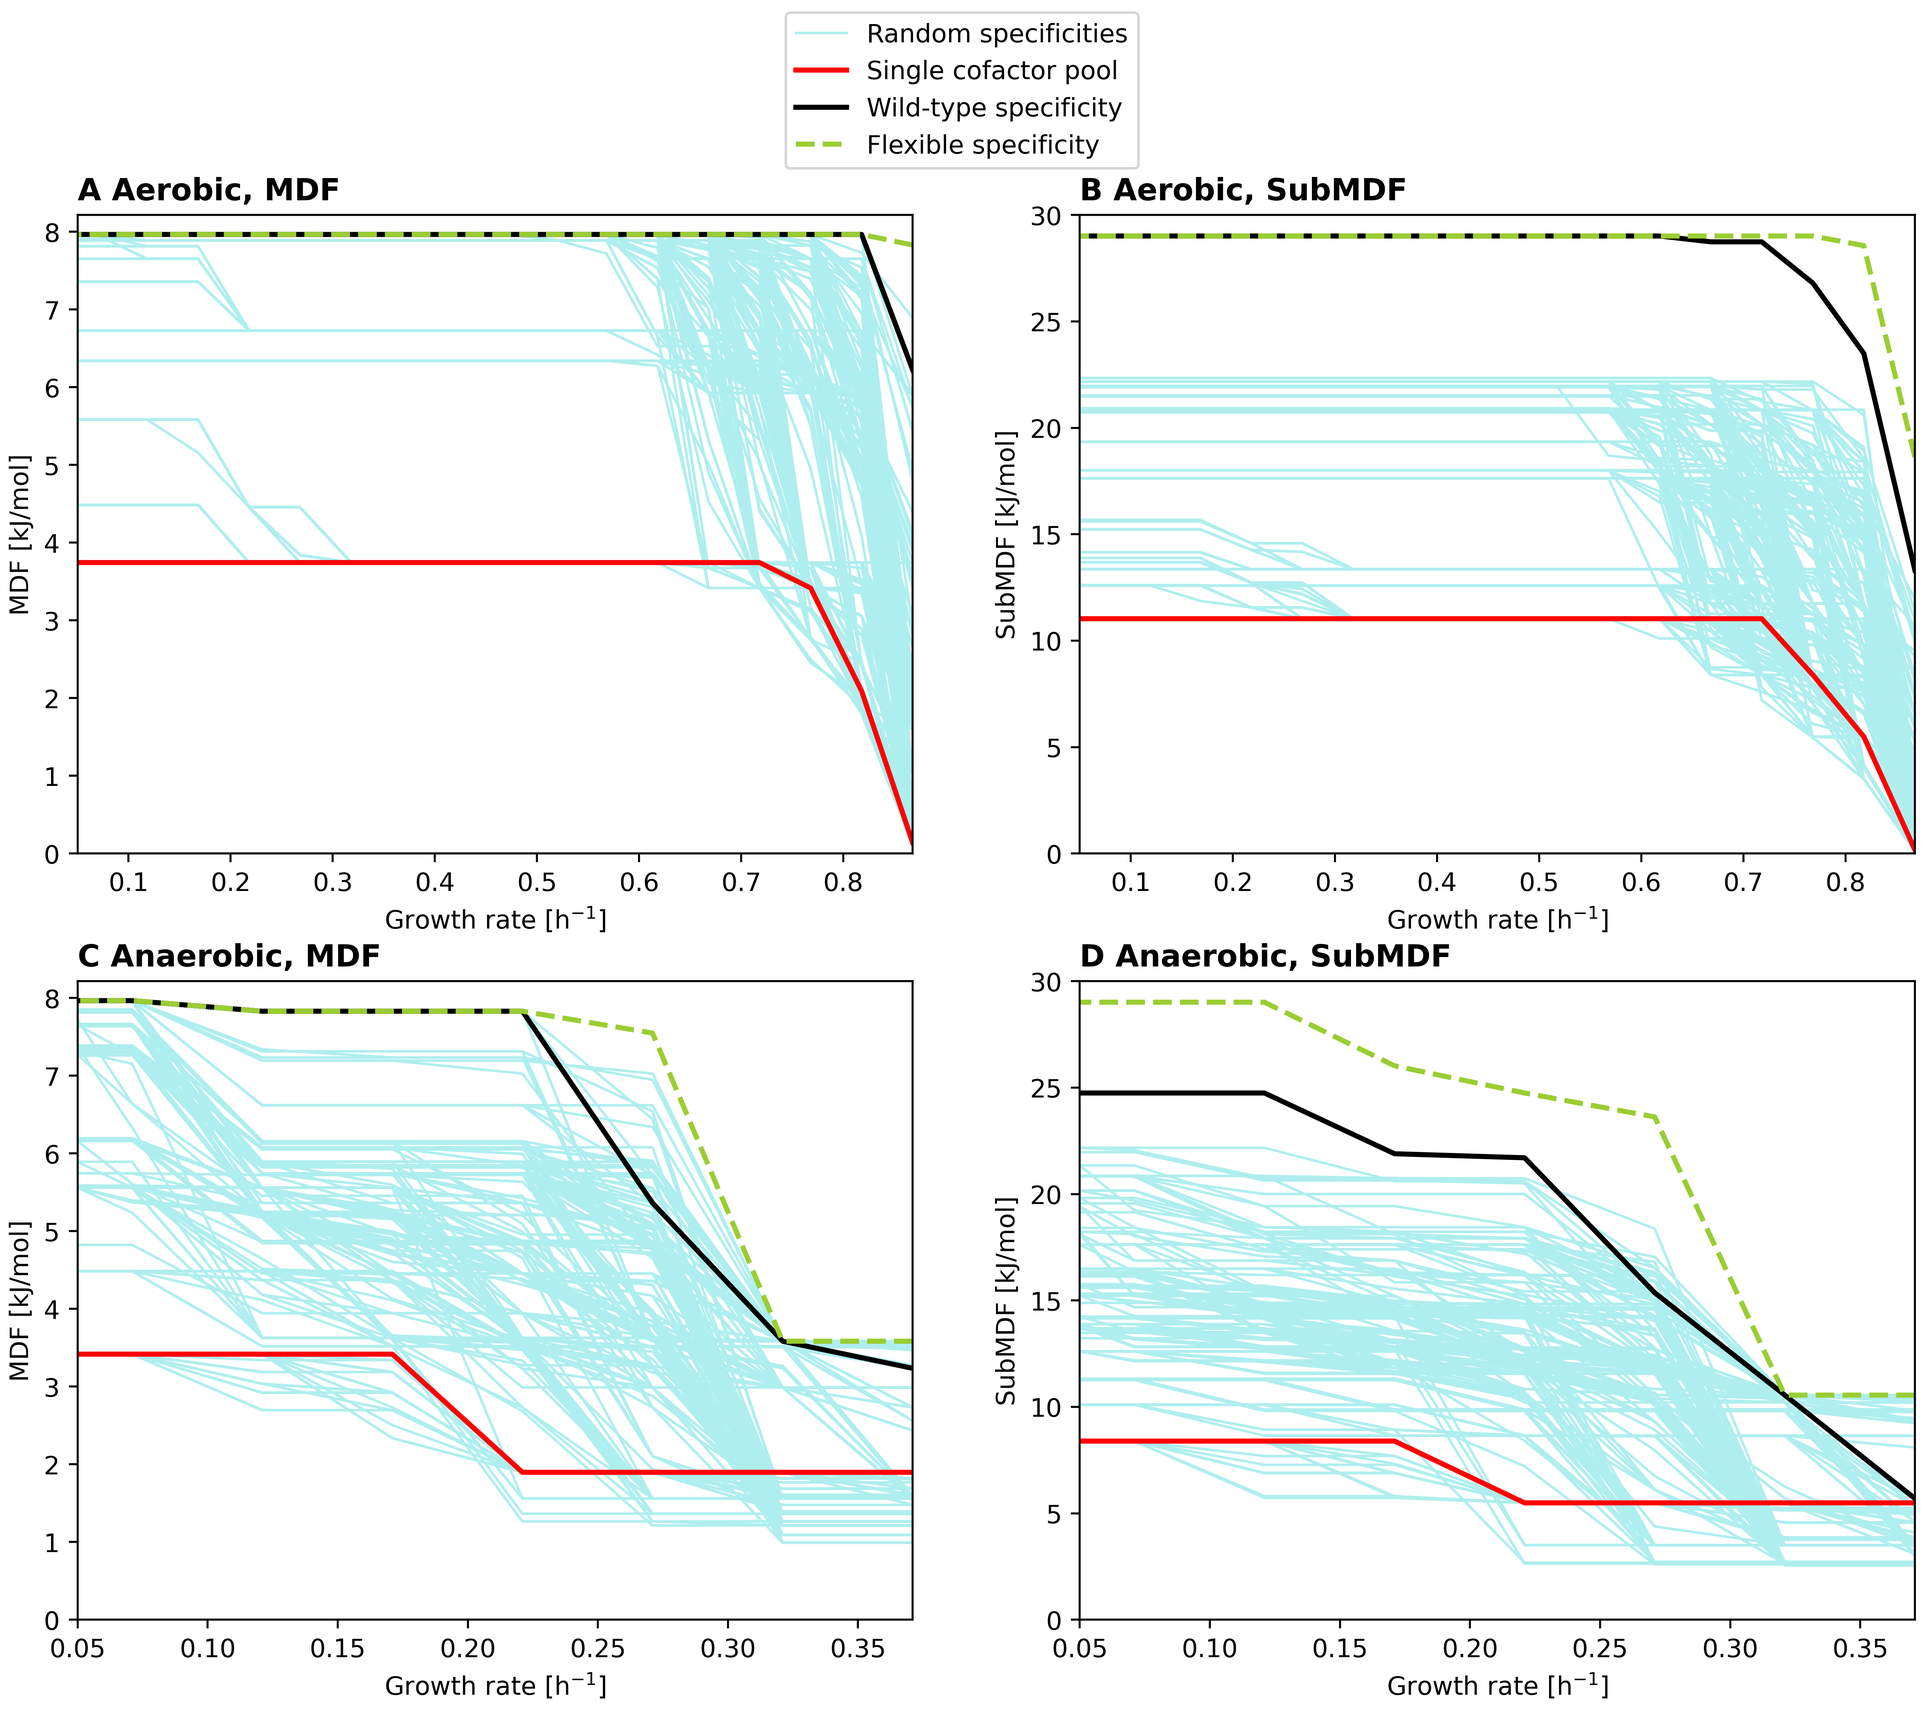
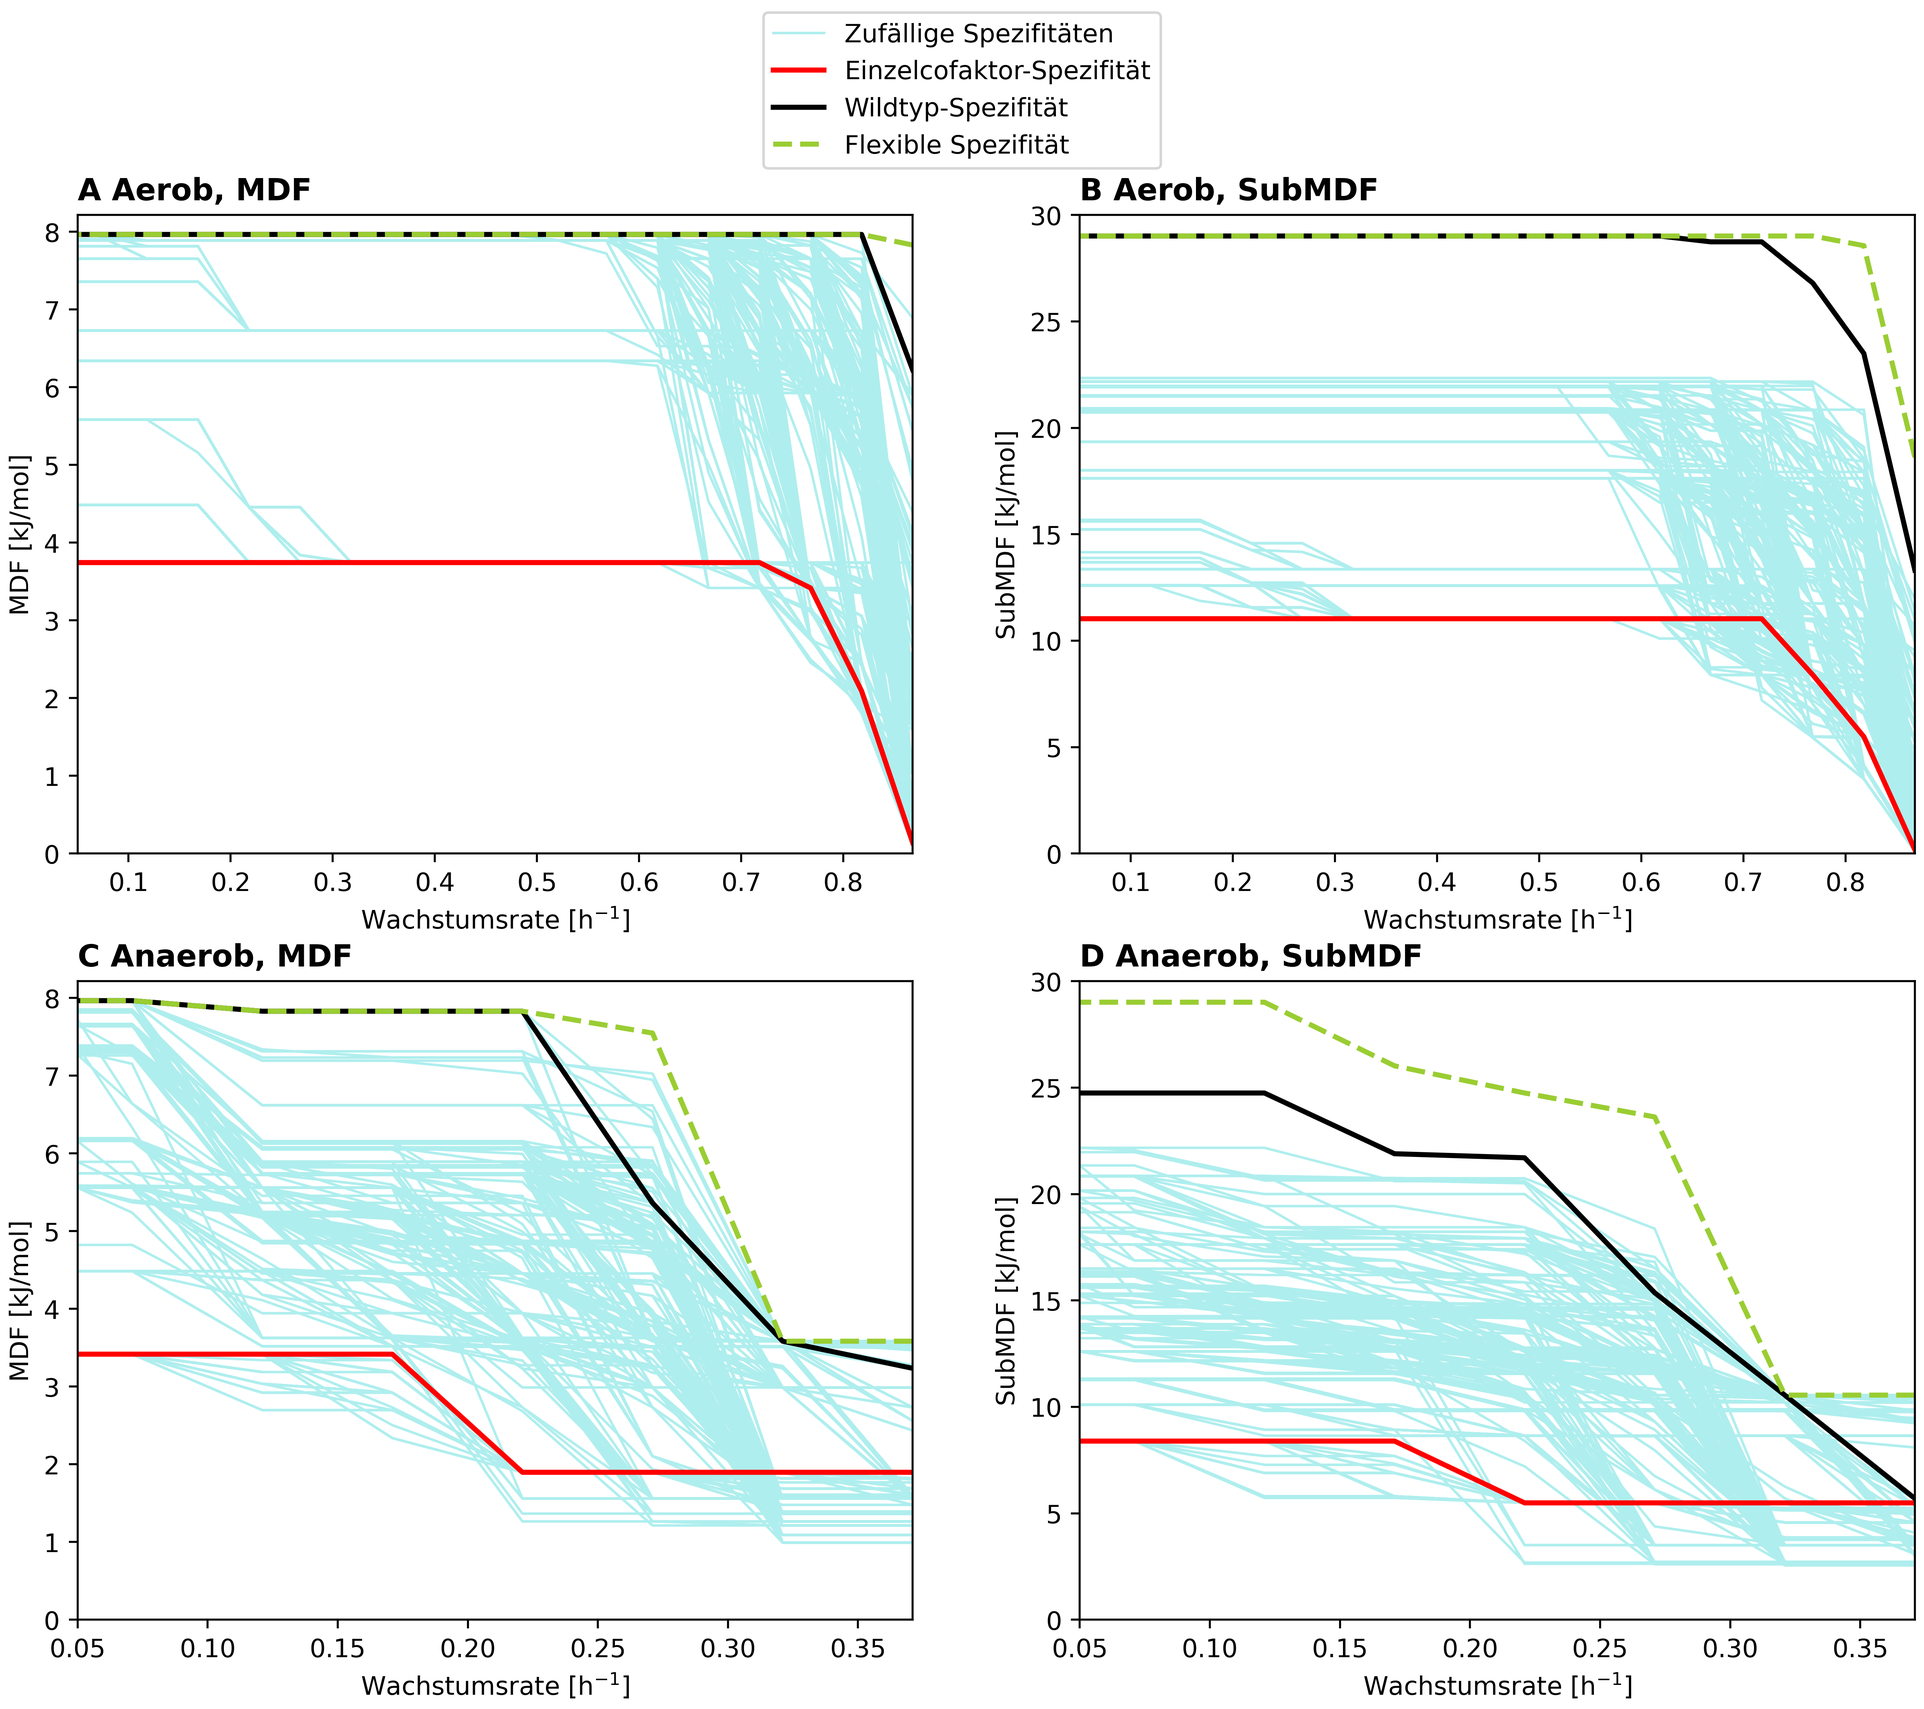
Initial translations

diff --git a/cosa_create_special_aerobic_figures.py b/cosa_create_special_aerobic_figures.py
@@ -59,23 +59,23 @@ def create_in_vivo_concentrations_figure():
         if header == growth_rate_id:
             continue
         elif header == best_id:
-            label = "Flexible specificity"
+            label = "Flexible Spezifität"
             linestyle = "--"
             color = "yellowgreen"
             linewidth = 2.0
         elif header == in_vivo_id:
-            label = "Wild-type specificity"
+            label = "Wildtyp-Spezifität"
             linestyle = "-"
             color = "black"
             linewidth = 2.0
         elif header == only_one_id:
-            label = "Single cofactor pool"
+            label = "Einzelcofaktor-Spezifität"
             linestyle = "-"
             color = "red"
             linewidth = 2.0
         else:
             if is_first_random:
-                label = "Random specificities"
+                label = "Zufällige Spezifitäten"
                 is_first_random = False
             else:
                 label = ""
@@ -93,7 +93,7 @@ def create_in_vivo_concentrations_figure():
         )
     axs[0].legend(loc="lower left", fontsize=16)
     axs[0].set_title("A", loc="left", fontweight="bold", fontsize=18)
-    axs[0].set_xlabel("Growth rate [1/h]", fontsize=14)
+    axs[0].set_xlabel("Wachstumsrate [1/h]", fontsize=14)
     axs[0].set_ylabel("SubMDF [kJ/mol]", fontsize=14)
     axs[0].set_xlim(min(growth_rates[:-1]), max(growth_rates[:-1]))
     axs[0].tick_params(labelsize=14)
@@ -105,8 +105,8 @@ def create_in_vivo_concentrations_figure():
     # 1: Ratio ratio figure
     ratio_ratio_test_data = ratio_ratio_test_data_aerobic
 
-    min_label = "Minimal ratio"
-    max_label = "Maximal ratio"
+    min_label = "Minimales Verhältnis"
+    max_label = "Maximales Verhältnis"
 
     figurename = figurename_tuple[1]
     plotted_growth_rates = [float(x) for x in ratio_ratio_test_data[figurename]["plotted_growth_rates"][:-1]]
@@ -128,7 +128,7 @@ def create_in_vivo_concentrations_figure():
     )
     axs[1].legend(loc="upper center", ncol=2, fontsize=16)
     axs[1].set_title("B", loc="left", fontweight="bold", fontsize=18)
-    axs[1].set_xlabel("Growth rate [1/h]", fontsize=15)
+    axs[1].set_xlabel("Wachstumsrate [1/h]", fontsize=15)
     # axs[1].set_ylabel(r"$\mathrm{\frac{[NADH]/[NAD^{+}]}{[NADPH]/[NADP^{+}]}}$", fontsize=15)
     axs[1].set_ylabel(r"$\mathrm{([NADH]/[NAD^{+}])/([NADPH]/[NADP^{+}])}$", fontsize=14)
     axs[1].tick_params(labelsize=14)
@@ -190,23 +190,23 @@ def create_acetate_figure():
             if header == growth_rate_id:
                 continue
             elif header == best_id:
-                label = "Flexible specificity"
+                label = "Flexible Spezifität"
                 linestyle = "--"
                 color = "yellowgreen"
                 linewidth = 2.0
             elif header == in_vivo_id:
-                label = "Wild-type specificity"
+                label = "Wildtyp-Spezifität"
                 linestyle = "-"
                 color = "black"
                 linewidth = 2.0
             elif header == only_one_id:
-                label = "Single cofactor pool"
+                label = "Einzelcofaktor-Spezifität"
                 linestyle = "-"
                 color = "red"
                 linewidth = 2.0
             else:
                 if is_first_random:
-                    label = "Random specificities"
+                    label = "Zufällige Spezifitäten"
                     is_first_random = False
                 else:
                     label = ""
@@ -223,8 +223,8 @@ def create_acetate_figure():
                 linewidth=linewidth,
             )
         axs[xpos, 0].legend(loc="lower left", fontsize=14)
-        axs[xpos, 0].set_title("C Sampling with SubMDF" if "SUB" in target else "A Sampling with MDF", loc="left", fontweight="bold", fontsize=18)
-        axs[xpos, 0].set_xlabel("Growth rate [1/h]", fontsize=14)
+        axs[xpos, 0].set_title("C SubMDF" if "SUB" in target else "A MDF", loc="left", fontweight="bold", fontsize=18)
+        axs[xpos, 0].set_xlabel("Wachstumsrate [1/h]", fontsize=14)
         axs[xpos, 0].set_ylabel(f"{target.replace('OPT', '').replace('SUB', 'Sub')} [kJ/mol]", fontsize=14)
         axs[xpos, 0].set_xlim(min(growth_rates[:-1]), max(growth_rates[:-1]))
         axs[xpos, 0].tick_params(labelsize=14)
@@ -236,8 +236,8 @@ def create_acetate_figure():
         # 1: Ratio ratio figures
         ratio_ratio_test_data = ratio_ratio_test_data_aerobic
 
-        min_label = "Minimal ratio"
-        max_label = "Maximal ratio"
+        min_label = "Minimales Verhältnis"
+        max_label = "Maximales Verhältnis"
 
         figurename = figurename_tuple[1]
         plotted_growth_rates = [float(x) for x in ratio_ratio_test_data[figurename]["plotted_growth_rates"][:-1]]
@@ -257,9 +257,9 @@ def create_acetate_figure():
             label=max_label,
             linewidth=1.0,
         )
-        axs[xpos, 1].legend(loc="upper center", ncol=2, fontsize=15)
-        axs[xpos, 1].set_title("D Ratios with SubMDF" if "SUB" in target else "B Ratios with MDF", loc="left", fontweight="bold", fontsize=18)
-        axs[xpos, 1].set_xlabel("Growth rate [1/h]", fontsize=15)
+        axs[xpos, 1].legend(loc="upper center", fontsize=15)
+        axs[xpos, 1].set_title("D Verhältnisse beim SubMDF" if "SUB" in target else "B Verhältnisse beim MDF", loc="left", fontweight="bold", fontsize=18)
+        axs[xpos, 1].set_xlabel("Wachstumsrate [1/h]", fontsize=15)
         axs[xpos, 1].set_ylabel(r"$\mathrm{[NADH]/[NAD^{+}] \ / \ [NADPH]/[NADP^{+}]}$", fontsize=13)
         axs[xpos, 1].tick_params(labelsize=14)
         axs[xpos, 1].set_ylim(-.0001 if "SUB" in target else -0.005, 0.0015 if "SUB" in target else 0.09)

diff --git a/cosa_ratio_ratio_test.py b/cosa_ratio_ratio_test.py
@@ -228,17 +228,17 @@ def cosa_create_full_ratio_ratio_test_figure_four_panels():
     concentrations = ("STANDARDCONC",) #"VIVOCONC")
     for concentration in concentrations:
         figurenames_to_plots = {
-            ("Aerobic", "OptMDF", "A", f"2C_NADH_to_NAD___to___NADPH_to_nadp_OPTMDF_{concentration}.jpg"): (0, 0),
-            ("Aerobic", "OptSubMDF", "B", f"2C_NADH_to_NAD___to___NADPH_to_nadp_OPTSUBMDF_{concentration}.jpg"): (0, 1),
-            ("Anaerobic", "OptMDF", "C", f"2C_NADH_to_NAD___to___NADPH_to_nadp_OPTMDF_{concentration}.jpg"): (1, 0),
-            ("Anaerobic", "OptSubMDF", "D", f"2C_NADH_to_NAD___to___NADPH_to_nadp_OPTSUBMDF_{concentration}.jpg"): (1, 1),
+            ("Aerob", "OptMDF", "A", f"2C_NADH_to_NAD___to___NADPH_to_nadp_OPTMDF_{concentration}.jpg"): (0, 0),
+            ("Aerob", "OptSubMDF", "B", f"2C_NADH_to_NAD___to___NADPH_to_nadp_OPTSUBMDF_{concentration}.jpg"): (0, 1),
+            ("Anaerob", "OptMDF", "C", f"2C_NADH_to_NAD___to___NADPH_to_nadp_OPTMDF_{concentration}.jpg"): (1, 0),
+            ("Anaerob", "OptSubMDF", "D", f"2C_NADH_to_NAD___to___NADPH_to_nadp_OPTSUBMDF_{concentration}.jpg"): (1, 1),
         }
         first = True
 
         fig, axs = plt.subplots(nrows=2, ncols=2, dpi=500, figsize=(19, 10)) #sharex=True, figsize=(50, 25), dpi=120, facecolor="white")
         fig.tight_layout(pad=3.75)
         for figurename_tuple in figurenames_to_plots.keys():
-            if figurename_tuple[0] == "Aerobic":
+            if figurename_tuple[0] == "Aerob":
                 ratio_ratio_test_data = ratio_ratio_test_data_aerobic
                 is_aerobic = True
             else:
@@ -246,8 +246,8 @@ def cosa_create_full_ratio_ratio_test_figure_four_panels():
                 is_aerobic = False
 
             if first:
-                min_label = "Minimal ratio"
-                max_label = "Maximal ratio"
+                min_label = "Minimales Verhältnis"
+                max_label = "Maximales Verhältnis"
                 first = False
             else:
                 min_label = None
@@ -304,19 +304,19 @@ def cosa_create_full_ratio_ratio_test_figure_four_panels():
                 )
             elif figurename_tuple[2] == "D":
                 axs[axs_index].set_ylim(-.04, 1.0)
-            axs[axs_index].set_xlabel("Growth rate [1/h]", fontsize=16)
+            axs[axs_index].set_xlabel("Wachstumsrate [1/h]", fontsize=16)
             # axs[axs_index].set_ylabel(r"$\mathrm{\frac{[NADH]/[NAD^{+}]}{[NADPH]/[NADP^{+}]}}$", fontsize=16)
             axs[axs_index].set_ylabel(r"$\mathrm{[NADH]/[NAD^{+}] \ / \ [NADPH]/[NADP^{+}]}$", fontsize=12)
             axs[axs_index].tick_params(labelsize=13)
-        fig.legend(loc=(0.235, 0.9525), ncol=2, fontsize=18)
+        fig.legend(loc=(0.16, 0.9525), ncol=2, fontsize=17)
         # fig.subplots_adjust(right=1.25)
 
         fig.savefig(f"./cosa/full_ratio_ratio_test_figure_{concentration}.png", bbox_inches='tight', pad_inches=0.05)
         plt.close()
 
 
-cosa_ratio_ratio_test(anaerobic=False, expanded=False)
-cosa_ratio_ratio_test(anaerobic=True, expanded=False)
-cosa_ratio_ratio_test(anaerobic=False, expanded=False, c_source="acetate")
+# cosa_ratio_ratio_test(anaerobic=False, expanded=False)
+# cosa_ratio_ratio_test(anaerobic=True, expanded=False)
+# cosa_ratio_ratio_test(anaerobic=False, expanded=False, c_source="acetate")
 
 cosa_create_full_ratio_ratio_test_figure_four_panels()

diff --git a/cosa_random_sampling_figures.py b/cosa_random_sampling_figures.py
@@ -786,19 +786,19 @@ def create_total_cosa_figure() -> None:
                 first = True
                 ax_x = 0
                 ax_y = 0
-                title = "A Aerobic, MDF"
+                title = "A Aerob, MDF"
             elif current_table == OPTSUBMDF_AEROBIC:
                 ax_x = 0
                 ax_y = 1
-                title = "B Aerobic, SubMDF"
+                title = "B Aerob, SubMDF"
             elif current_table == OPTMDF_ANAEROBIC:
                 ax_x = 1
                 ax_y = 0
-                title = "C Anaerobic, MDF"
+                title = "C Anaerob, MDF"
             elif current_table == OPTSUBMDF_ANAEROBIC:
                 ax_x = 1
                 ax_y = 1
-                title = "D Anaerobic, SubMDF"
+                title = "D Anaerob, SubMDF"
             current_table += 1
 
             table = pandas.read_csv(
@@ -825,23 +825,23 @@ def create_total_cosa_figure() -> None:
                 if header == growth_rate_id:
                     continue
                 elif header == best_id:
-                    label = "Flexible specificity"
+                    label = "Flexible Spezifität"
                     linestyle = "--"
                     color = "yellowgreen"
                     linewidth = 2.0
                 elif header == in_vivo_id:
-                    label = "Wild-type specificity"
+                    label = "Wildtyp-Spezifität"
                     linestyle = "-"
                     color = "black"
                     linewidth = 2.0
                 elif header == only_one_id:
-                    label = "Single cofactor pool"
+                    label = "Einzelcofaktor-Spezifität"
                     linestyle = "-"
                     color = "red"
                     linewidth = 2.0
                 else:
                     if is_first_random:
-                        label = "Random specificities"
+                        label = "Zufällige Spezifitäten"
                         is_first_random = False
                     else:
                         label = ""
@@ -872,7 +872,7 @@ def create_total_cosa_figure() -> None:
                     linewidth=linewidth,
                 )
                 axs[ax_x, ax_y].set_title(title, loc="left", fontweight="bold")
-                axs[ax_x, ax_y].set_xlabel(r"Growth rate [$\mathrm{h^{-1}}$]")
+                axs[ax_x, ax_y].set_xlabel(r"Wachstumsrate [$\mathrm{h^{-1}}$]")
                 axs[ax_x, ax_y].set_ylabel(ylabel)
                 axs[ax_x, ax_y].set_xlim(min(temp_growth_rates), max(temp_growth_rates))
                 if "SubMDF" not in ylabel:

diff --git a/cosa_create_extended_model_figure.py b/cosa_create_extended_model_figure.py
@@ -36,7 +36,7 @@ for concentration_ranges in ("STANDARDCONC",): #"VIVOCONC"):
                     extra = f"_nadz_change_{change_state}"
                     # legend_addition = f" (formation energy change: {'' if change_state<0 else '+'}{change_state} kJ/mol)"
                     r"$\mathrm{([NADH]/[NAD^{+}])/([NADPH]/[NADP^{+}])}$"
-                    legend_addition = r" ($\mathrm{ΔE'°}$ at "+f"{'-165' if change_state == -30 else '-475'} mV for third cofactor)"
+                    legend_addition = r" ($\mathrm{ΔE'°}$=" +f"{'-165' if change_state == -30 else '-475'} mV für 3. Cofaktor)"
                 file_path_optmdf = f"cosa/results_{aerobicity}/optmdf_table_{concentration_ranges}.csv"
                 file_path_expanded_optmdf = f"cosa/results_{aerobicity}_expanded{extra}/optmdf_table_{concentration_ranges}.csv"
                 file_path_optsubmdf = f"cosa/results_{aerobicity}/optsubmdf_table_{concentration_ranges}.csv"
@@ -50,10 +50,10 @@ for concentration_ranges in ("STANDARDCONC",): #"VIVOCONC"):
                 if aerobicity == "aerobic":
                     axs_row = 0
                     title = "A Aerobic"
-                    label_optmdf_two = "MDF with 2 cofactors (all $\mathrm{ΔE'°}$ at -320 mV)"
-                    label_optsubmdf_three = "SubMDF with 3 cofactors" + legend_addition
-                    label_optmdf_three = "MDF with 3 cofactors" + legend_addition
-                    label_optsubmdf_two = "SubMDF with 2 cofactors (all $\mathrm{ΔE'°}$ at -320 mV)"
+                    label_optmdf_two = "MDF mit 2 Cofaktoren (alle $\mathrm{ΔE'°}$=-320 mV)"
+                    label_optsubmdf_three = "SubMDF mit 3 Cofaktoren" + legend_addition
+                    label_optmdf_three = "MDF mit 3 Cofaktoren" + legend_addition
+                    label_optsubmdf_two = "SubMDF mit 2 Cofaktoren (alle $\mathrm{ΔE'°}$=-320 mV)"
                 else:
                     axs_row = 1
                     title = "B Anaerobic"
@@ -108,7 +108,7 @@ for concentration_ranges in ("STANDARDCONC",): #"VIVOCONC"):
 
                 anaerobic = aerobicity == "anaerobic"
                 axs[axs_row].set_title(title, loc="left", fontweight="bold")
-                axs[axs_row].set_xlabel("Growth rate [1/h]")
+                axs[axs_row].set_xlabel("Wachstumsrate [1/h]")
                 axs[axs_row].set_ylabel(r"(Sub)MDF [kJ/mol]")
                 axs[axs_row].set_xlim(min(growth_rates), max(growth_rates))
 
